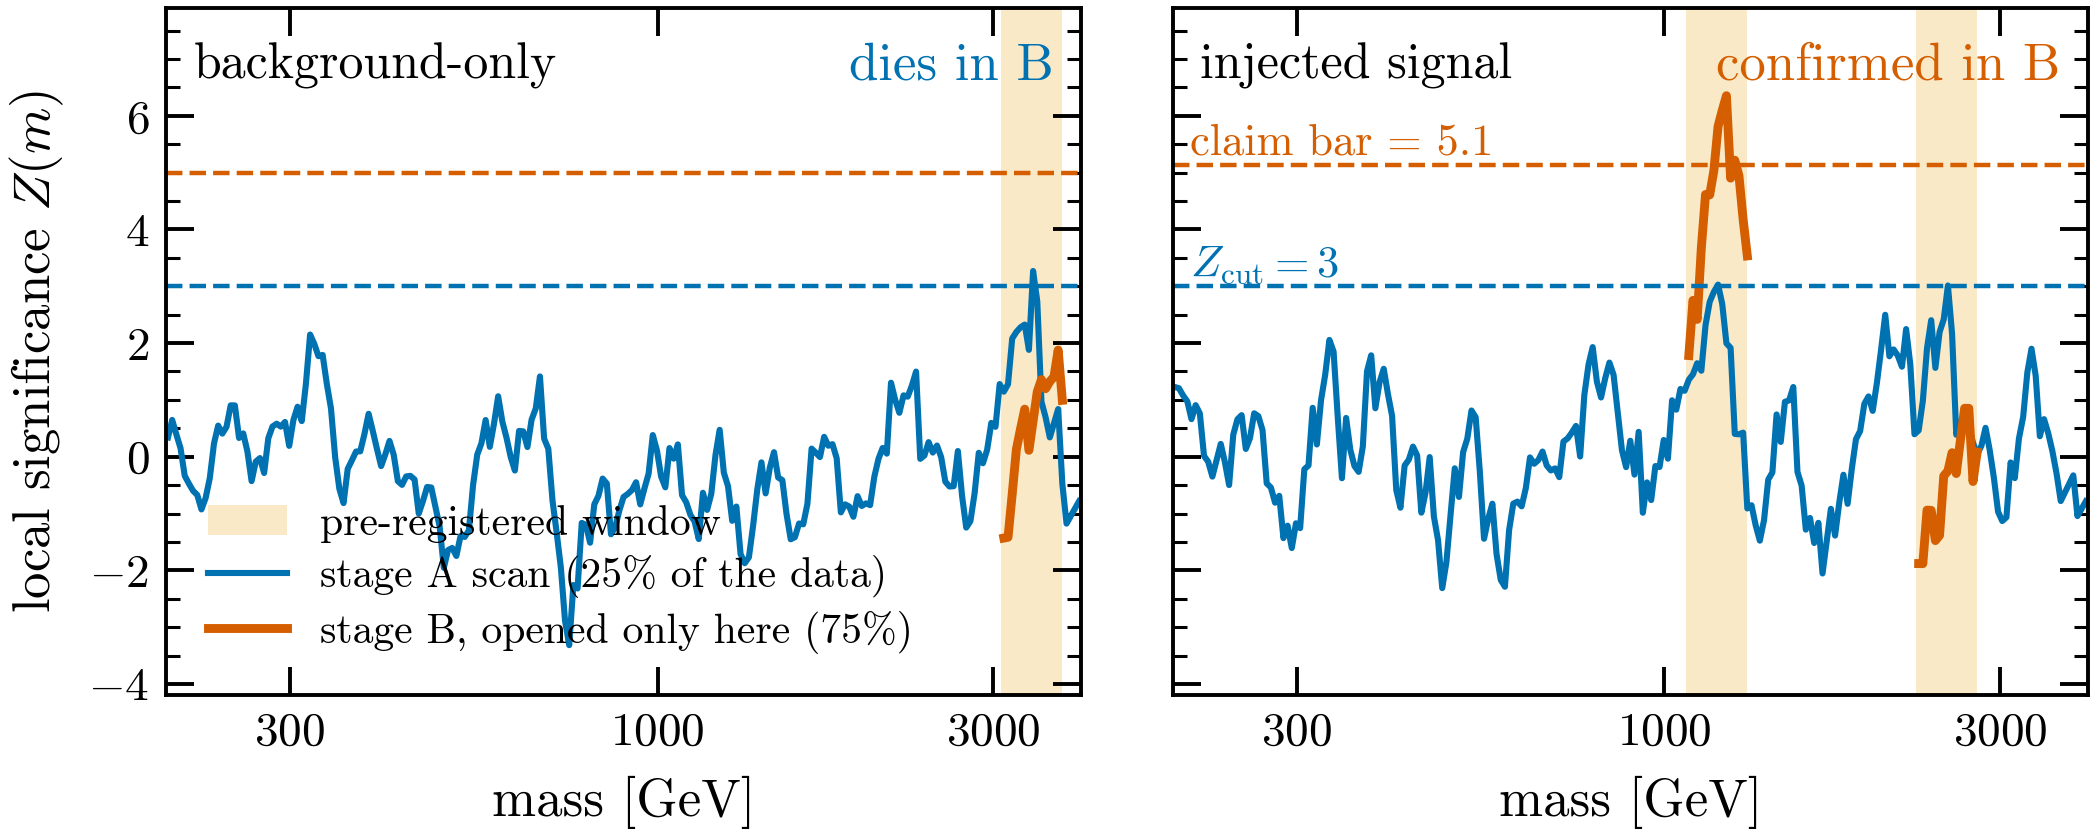
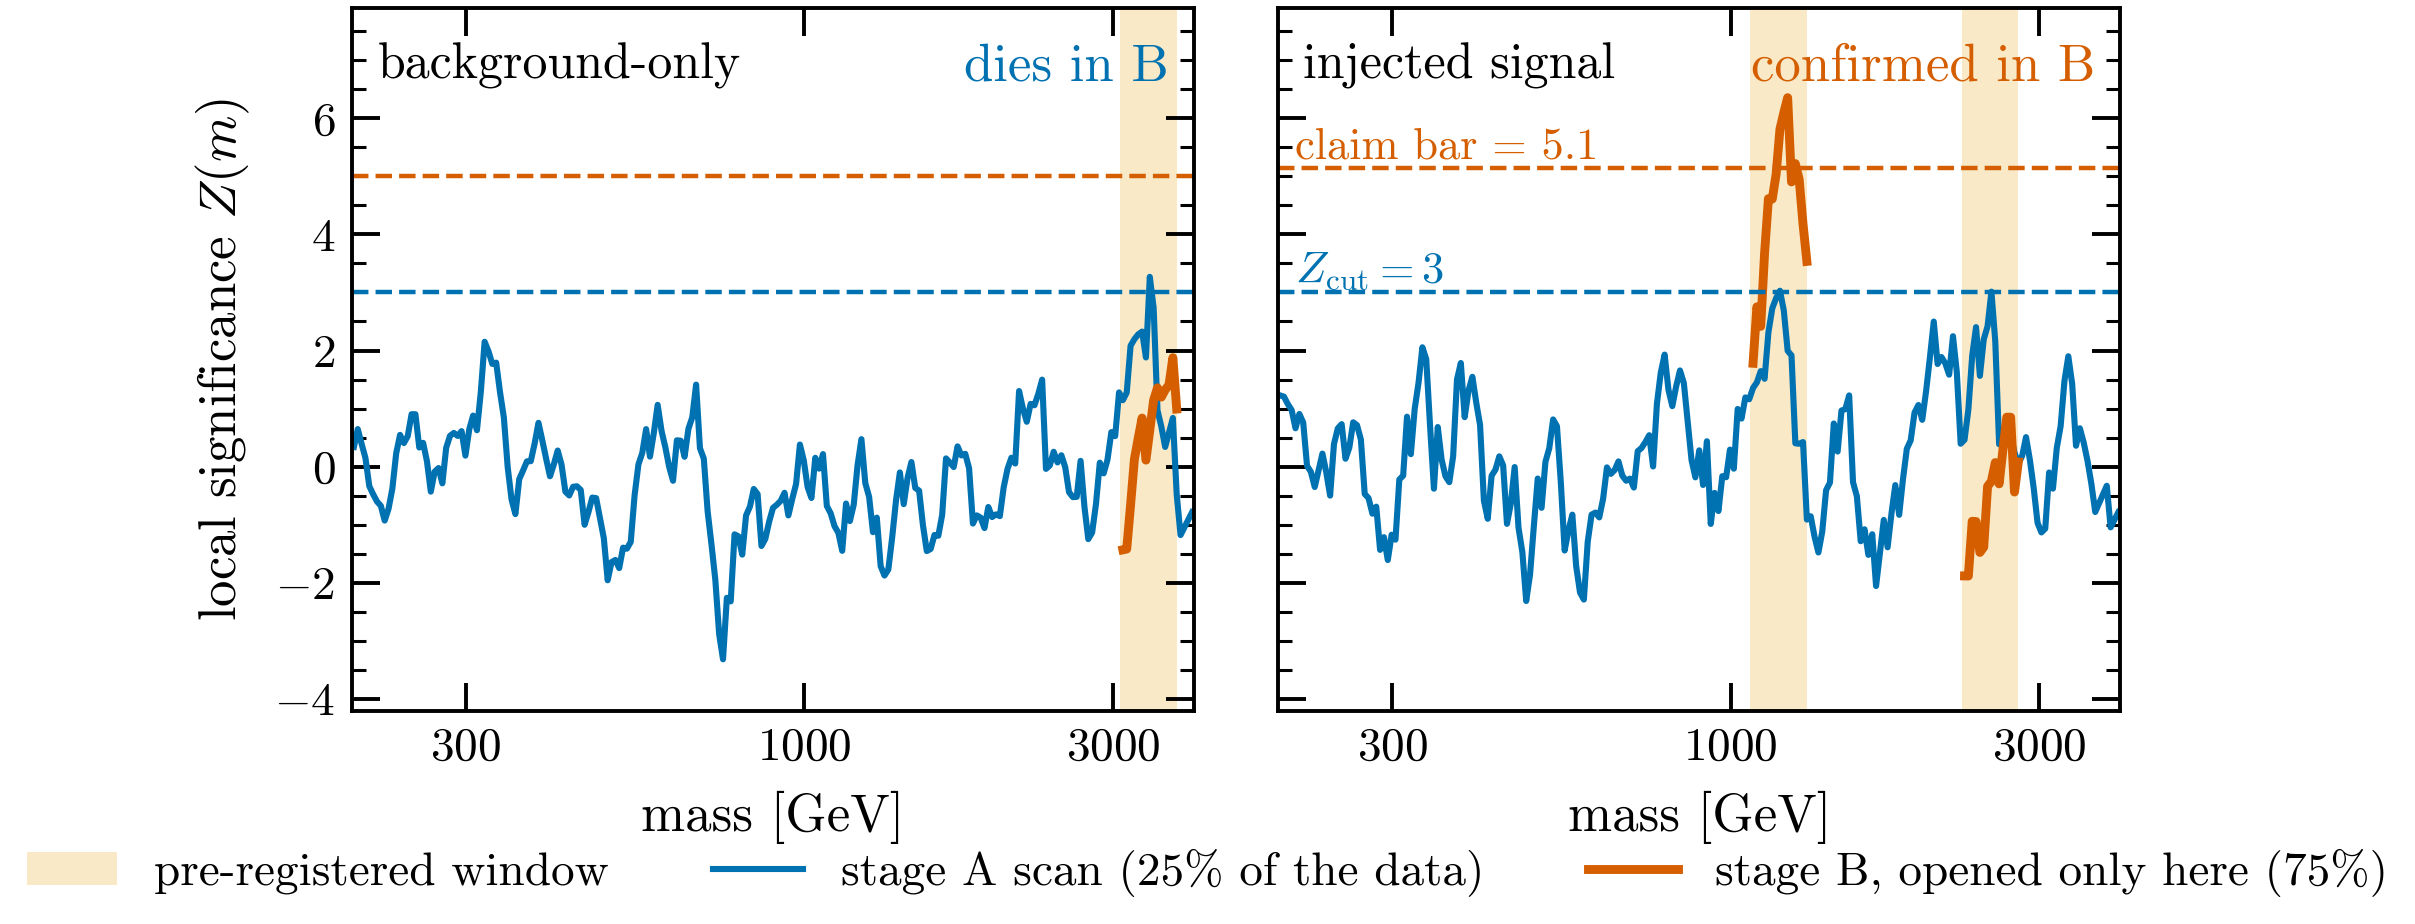
Move the A/B guard legend out of the data and draw the figure at print size

diff --git a/scripts/ab_spurious_guard.py b/scripts/ab_spurious_guard.py
@@ -54,7 +54,7 @@ while True:
     seed += 1
 zA_sig, zB_sig = split_toy(998, sig_mass=1200.0, sig_zfull=7.0)
 
-fig, axs = plt.subplots(1, 2, figsize=size(1.0, 0.36), sharey=True,
+fig, axs = plt.subplots(1, 2, figsize=size(0.92, 0.40), sharey=True,
                         gridspec_kw=dict(wspace=0.10))
 panels = [(axs[0], zA, zB, "background-only", "dies in B", C_BKG),
           (axs[1], zA_sig, zB_sig, "injected signal", "confirmed in B", C_ARG)]
@@ -90,7 +90,9 @@ axs[1].text(212, Z_CUT + 0.18, r"$Z_{\mathrm{cut}} = 3$", color=C_BKG, fontsize=
 axs[1].text(212, thr + 0.18, f"claim bar = {thr:.1f}", color=C_ARG, fontsize=8)
 axs[0].set_ylabel(r"local significance $Z(m)$")
 axs[0].set_ylim(-4.2, 7.9)
-axs[0].legend(loc="lower left", fontsize=7.5)
+handles, labels = axs[0].get_legend_handles_labels()
+fig.legend(handles, labels, loc="upper center", bbox_to_anchor=(0.5, 0.01), ncol=3,
+           fontsize=8.5, handlelength=1.9, columnspacing=2.2)
 fig.savefig(OUT)
 print(f"wrote {OUT}")
 print(f"  bkg toy seed {seed}: max Z_A = {zA.max():.2f}, "
